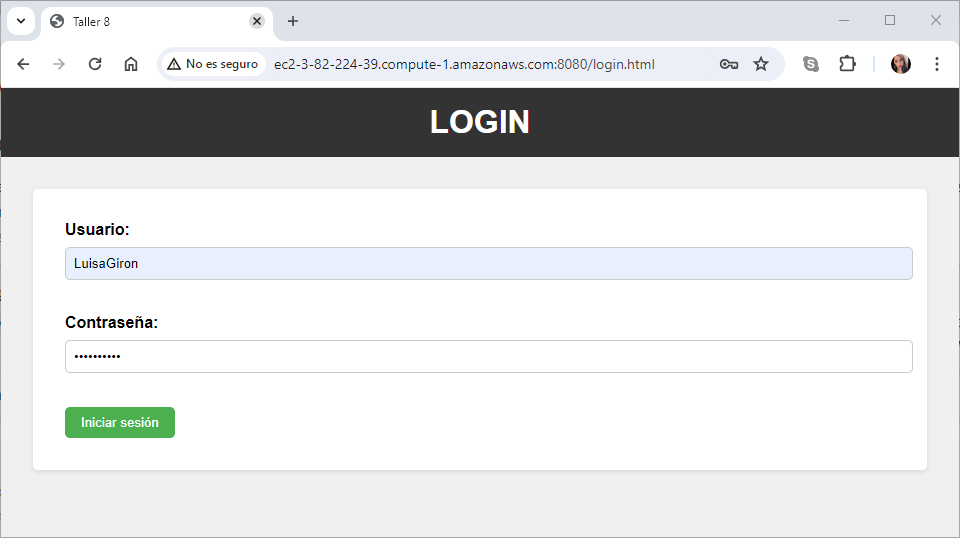
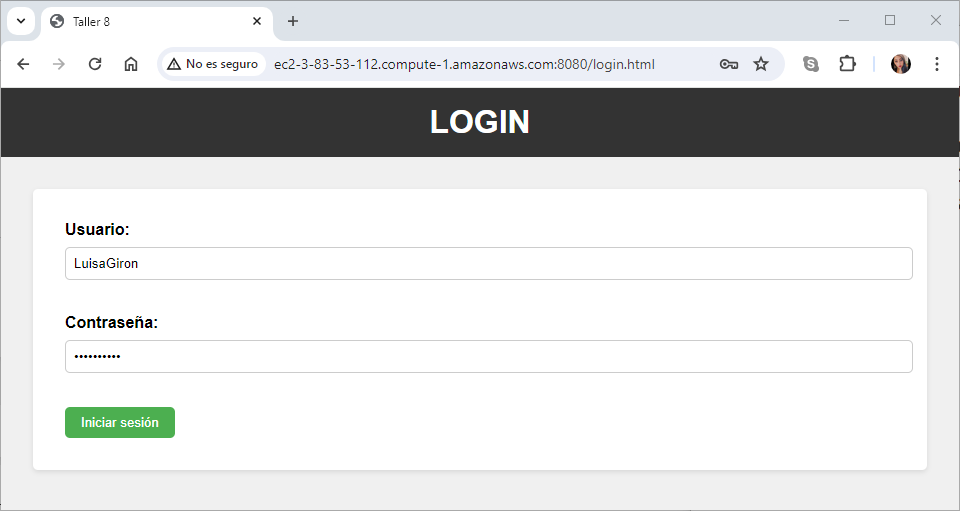
Readme

diff --git a/README.md b/README.md
@@ -1,12 +1,8 @@
 # TALLER 8 : Microservicios
 
-Se creo una aplicación web usando el framework Quarkus (https://quarkus.io/). La cual fue desplegada en AWS utilizando los servicios de EC2, S3 Y Lambdas.
+Se creo una aplicación web usando el framework Quarkus (https://quarkus.io/). La cual fue desplegada en AWS utilizando los servicios de EC2 y S3.
 
 Esta aplicación le permite a los usuarios hacer posts de 140 caracteres e ir registrándolos en un stream único de posts (similar a Twitter). En donde se tuvieron en cuenta tres entidades Usuario, hilo(stream) y posts.
-
-Para esto realizamos dos procesos:
-1.	Se creó un monolito con Quarkus. (Revisar los primeros commits) 
-2.	Con base a lo anterior se separó el monolito en tres microservicios independientes.
 
 ---
 ### Prerrequisitos
@@ -18,6 +14,8 @@ Para esto realizamos dos procesos:
 * [Java -17](https://www.cursosaula21.com/que-es-java/)
 
 * [AWS](https://aws.amazon.com/es/training/awsacademy/)
+
+* [Quarkus] (https://es.quarkus.io/about/)
 
 ---
 
@@ -35,9 +33,65 @@ https://github.com/20042000/AREP_Taller08.git
 cd AREP_Taller08
 ```
 
+3.Contruimos el proyecto
+
+```
+mvn package
+```
+
+4.Levantamos el servidor
+
+```
+mvn quarkus:run
+```
 ---
 
 ### Usabilidad
+
+Nuestra aplicación consta de dos formulario uno es el login y el otro es nuestra aplicación similar a twitter donde los usuarios podran realizar los post que se iran registrando en un hilo único de posts.
+
+**Importante:** Si un usuario no esta logueado, no puede acceder a la página principal
+
+1.Probamos nuestra aplicación accediendo a la siguiente URL en el navegador
+
+```
+http://localhost:8080/login.html
+```
+
+Allí vamos a loguearnos con uno de nuestros usuarios, con el username y la contraseña, como se muestar a continuación:
+
+![](images/localUsuarioLu.PNG)
+
+**Nota:** Puede ingresar con los siguientes usuarios:
+
+```
+Usuario: LuisaGiron
+Contraseña: Luisa05-25
+
+Usuario: FelipeLadino
+Contraseña: Felipe11-20
+
+Usuario: DanielaLadino
+Contraseña: Daniela20-04
+
+```
+Si ingresamos con las credenciales correctas se abrirá la página principal de la aplicación, en donde el usuario ingresará un comentario en el campo de texto y luego debe dar click en publicar.
+
+Luego de que el usuario publique el post, este aparecerá en una lista, como se muestra a continuación:
+
+![](images/localPost.PNG)
+
+
+Ahora vamos a ingresar con otro usuario desde una ventana incognito para postear otro mensaje
+
+![](images/localUsuarioFe.PNG)
+
+![](images/localPost2.PNG)
+
+Como podemos observar, aparecen dos posts uno del usuario Luisa y otro del usuario Felipe el cual se agregó a nuestro hilo. 
+
+Es importante tener en cuenta que, si el usuario de Luisa recarga la pagina o envía otro post, este también podrá visualizar los posts que hayan realizado otros usuarios.
+
 
 ---
 ### Ejecución de Test
@@ -53,9 +107,83 @@ En el siguiente link encontrara el video donde se evidencia el despliegue en AWS
 ```
 
 ---
+
+### Pruebas Despliegue en AWS
+
+**EC2:**
+
+
+Probamos nuestra aplicación accediendo a la siguiente URL en el navegador
+
+```
+http://ec2-3-83-53-112.compute-1.amazonaws.com:8080/login.html
+```
+
+Ingresamos con el usuario LuisaGiron
+![](images/EC2UsuarioLu.PNG)
+
+Realizamos un Post, como se muestra a continuación:
+![](images/EC2Post.PNG)
+
+Ahora ingresamos con el usuario DanielaLadino en una ventana incognito
+
+![](images/EC2UsuarioDa.PNG)
+
+Realizamos un Post con el usuario DanielaLadino:
+![](images/EC2Post2.PNG)
+
+Como podemos observar se listaron 2 post los cuales son: el post realizado por LuisaGiron y el post realizado por DanielaLadino.
+
+
+**S3:**
+
+Probamos nuestra aplicación accediendo a la siguiente URL en el navegador
+
+```
+http://twitter-statics.s3-website-us-east-1.amazonaws.com/login.html
+```
+
+Ingresamos con el usuario FelipeLadino
+![](images/S3UsuarioFe.PNG)
+
+Realizamos un Post, como se muestra a continuación:
+![](images/S3Post.PNG)
+
+Ahora ingresamos con el usuario LuisaGiron en una ventana incognito
+
+![](images/S3UsuarioLu.PNG)
+
+Realizamos un Post con el usuario DanielaLadino:
+![](images/S3Post2.PNG)
+
+Como podemos observar se listaron 2 post los cuales son: el post realizado por LuisaGiron y el post realizado por DanielaLadino.
+
+---
 ### Arquitectura
 
+Se construyo una aplicación, similar a Twitter que permite a los usuarios publicar mensajes y ver un flujo de publicaciones. La arquitectura se compone de tres niveles principales:
+
+**1. Front-End:** Este nivel está implementado utilizando HTML, CSS y JavaScript y se almacena en un Bucket S3, que es un servicio de almacenamiento ofrecido por AWS que se usa frecuentemente para alojar contenido estático.
+
+**2. Back-End:** Se implemento utilizando Quarkus y consta de tres microservicios:
+
+* **Usuario:** Este microservicio gestiona actividades de administración de usuarios, como agregar un usuario, consultar usuarios por id y loguearse.
+
+* **Hilo:** Este microservicio gestiona actividades de administración de hilos, como agregar hilos, consultar todos los hilos, consultar un hilo por el id y agregar posts al hilo.
+
+* **Post:** Este microservicio gestiona actividades de administración de post, como consultar los posts.
+
+**3. JWT:** Se utiliza para autenticar usuarios
+
+* Cuando un usuario inicia sesión, el microservicio Usuario genera un JWT.
+* El JWT se envía de vuelta al front-end en la respuesta HTTP.
+* Las solicitudes posteriores del front-end a los microservicios back-end incluyen el JWT en el encabezado de la solicitud.
+* Los microservicios back-end validan el JWT antes de procesar la solicitud.
+
+
 **Componentes**
+
+![](images/taller08.PNG)
 
 ---
 
@@ -76,6 +204,8 @@ En el siguiente link encontrara el video donde se evidencia el despliegue en AWS
 * [Visual Studio Code](https://openwebinars.net/blog/que-es-visual-studio-code-y-que-ventajas-ofrece/): Es un editor de código fuente desarrollado por Microsoft. Es software libre y multiplataforma, está disponible para Windows, GNU/Linux y macOS.
 
 * [AWS](https://aws.amazon.com/es/training/awsacademy/): Ofrece cursos y recursos de aprendizaje que permiten a los estudiantes desarrollar diferentes habilidades relacionadas con la nube de AWS.
+
+* [Quarkus](https://es.quarkus.io/about/): Quarkus fue creado para permitir a los desarrolladores de Java crear aplicaciones para un mundo moderno y nativo de la nube. Quarkus es un marco Java nativo de Kubernetes adaptado a GraalVM y HotSpot, elaborado a partir de las mejores bibliotecas y estándares Java. El objetivo es convertir a Java en la plataforma líder en Kubernetes y entornos sin servidor, al tiempo que ofrece a los desarrolladores un marco para abordar una gama más amplia de arquitecturas de aplicaciones distribuidas.
 
 
 ## Autores
